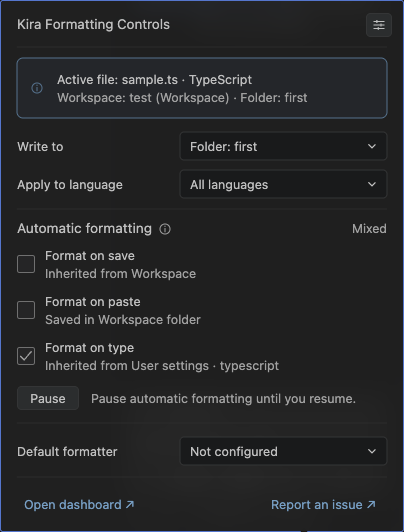
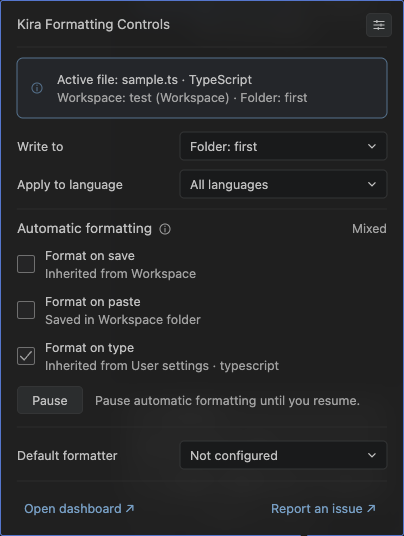
style(status): restore previous pause button dimensions

diff --git a/test/status.ts b/test/status.ts
@@ -408,8 +408,8 @@ export async function reviewStatus(
   assert.equal(await pauseLink.getAttribute("title"), null);
   const pauseImage = pauseLink.getByRole("img", { name: "Pause", exact: true });
   assert.equal(await pauseImage.getAttribute("title"), null);
-  assert.equal((await pauseImage.boundingBox())?.width, 62);
-  assert.equal((await pauseImage.boundingBox())?.height, 24);
+  assert.equal((await pauseImage.boundingBox())?.width, 66);
+  assert.equal((await pauseImage.boundingBox())?.height, 28);
   const pauseBounds = await pauseImage.boundingBox();
   const formatterBounds = await formatter.boundingBox();
   const settingsBounds = await settings.getByRole("img").boundingBox();
@@ -420,11 +420,7 @@ export async function reviewStatus(
     pauseBounds && formatterBounds && settingsBounds && headerBounds && hovered,
   );
   const center = (box: { y: number; height: number }) => box.y + box.height / 2;
-  assert.equal(
-    pauseBounds.height,
-    settingsBounds.height,
-    "Pause/Resume matches the Settings button height",
-  );
+  assert.equal(settingsBounds.height, 24, "Settings keeps its current size");
   assert.ok(Math.abs(center(settingsBounds) - center(headerBounds)) <= 1);
   const flagBounds = await flags.boundingBox();
   const caption = hover.getByRole("img", {

diff --git a/shared/status-artwork.ts b/shared/status-artwork.ts
@@ -261,27 +261,27 @@ export function statusArtwork(
       `Default formatter: ${context.formatter ?? "Not configured"}. Read-only.`,
     ),
     pause: image(
-      24,
-      rect(0.5, 0.5, 61, 23, p.border, p.button) +
+      28,
+      rect(0.5, 0.5, 65, 27, p.border, p.button) +
         centeredText(
-          31,
-          12,
+          33,
+          14,
           pauseLabel,
           12.5,
           context.canPause ? p.fg : p.muted,
           "middle",
         ),
       pauseLabel,
-      62,
+      66,
     ),
     // Unlinked artwork centers the button and explanation without expanding
     // the button's click target into the caption or vertical padding.
-    pauseInset: image(40, "", "", 5),
+    pauseInset: image(44, "", "", 5),
     pauseCaption: image(
-      40,
-      centeredText(12, 20, pauseCaption, 12.5, p.muted),
+      44,
+      centeredText(12, 22, pauseCaption, 12.5, p.muted),
       pauseCaption,
-      313,
+      309,
     ),
     dashboard: image(
       28,

diff --git a/test/unit/status-hover.ts b/test/unit/status-hover.ts
@@ -148,7 +148,8 @@ test("status and pause/resume reserve identical geometry and preserve truthful e
     1,
   );
   for (const art of variants) {
-    assert.equal(art.pause.height, art.settings.height);
+    assert.equal(art.pause.width, 66);
+    assert.equal(art.pause.height, 28);
     assert.doesNotMatch(art.state.svg, /<rect\b/);
     assert.doesNotMatch(art.summary.svg, /<rect\b/);
   }
@@ -176,7 +177,7 @@ test("information and pause explanations are passive while actions retain their 
     );
     assert.ok(button);
     assert.equal(button[2], "");
-    assert.match(button[3] ?? "", /width="62" height="24"/);
+    assert.match(button[3] ?? "", /width="66" height="28"/);
     assert.doesNotMatch(
       button[3] ?? "",
       /until you resume|previous formatting/,

diff --git a/docs/status-controls.md b/docs/status-controls.md
@@ -43,7 +43,7 @@ Read-only dropdowns use standard outlined fields with normal text and arrows. Ch
 
 VS Code's public `StatusBarItem.tooltip` accepts Markdown, images and command links; arbitrary form styling is sanitized. Locally generated inert SVG images preserve the approved layout, with native links for actions and hover-only titles for help. No scripts, external images, rendering network calls or rendering files are used.
 
-The approved compact layout uses a 380px content width (approximately 404px including the native hover frame and insets). The title and section heading use 13.5px regular text and body/control text 12.5px, including source notes, button labels and footer links. Icons, 17px checkboxes and dropdown arrows are reduced to match. Read-only fields retain 28px outlines. The status reserves 78px of width with no border or background, so labels do not move neighboring content. Setting rows use a 46px rhythm with approximately 10px between each checkbox and its text. Checked boxes show an outlined tick; unchecked boxes retain the same neutral surface. High-contrast themes retain distinct ticks and outlines. The file/workspace block and context info icon are vertically centered, with a 14px gap between the icon and text. The formatting heading, info glyph and fixed-width status text share one hover-only image with an optical adjustment for the icon, rather than mixing a text baseline with icon coordinates. The status explanation remains discoverable through the visible info icon. The neutral Pause/Resume button has a subtle gray fill and regular foreground text, retaining the native pause picker flow. Its explanation is a separate unlinked image; only the button invokes the action. Its 62px by 24px dimensions remain fixed across both labels and match the Settings button’s height; a read-only User-scope display keeps neutral styling. Borderless footer artwork shares the same content width and aligns to the card edges independently of VS Code's native table-column sizing. Its 139px and 133px button widths leave a 108px unlinked gutter.
+The approved compact layout uses a 380px content width (approximately 404px including the native hover frame and insets). The title and section heading use 13.5px regular text and body/control text 12.5px, including source notes, button labels and footer links. Icons, 17px checkboxes and dropdown arrows are reduced to match. Read-only fields retain 28px outlines. The status reserves 78px of width with no border or background, so labels do not move neighboring content. Setting rows use a 46px rhythm with approximately 10px between each checkbox and its text. Checked boxes show an outlined tick; unchecked boxes retain the same neutral surface. High-contrast themes retain distinct ticks and outlines. The file/workspace block and context info icon are vertically centered, with a 14px gap between the icon and text. The formatting heading, info glyph and fixed-width status text share one hover-only image with an optical adjustment for the icon, rather than mixing a text baseline with icon coordinates. The status explanation remains discoverable through the visible info icon. The neutral Pause/Resume button has a subtle gray fill and regular foreground text, retaining the native pause picker flow. Its explanation is a separate unlinked image; only the button invokes the action. Its 66px by 28px dimensions remain fixed across both labels; a read-only User-scope display keeps neutral styling. Borderless footer artwork shares the same content width and aligns to the card edges independently of VS Code's native table-column sizing. Its 139px and 133px button widths leave a 108px unlinked gutter.
 
 Transparent artwork reveals the native hover surface. Dark, light, high-contrast and high-contrast-light palettes follow the theme kind; arbitrary custom theme colors/fonts are not available inside the image renderer. Native links follow the editor's own hover/focus styling. The public Markdown tooltip cannot reproduce Copilot's custom grey icon-button hover fill or enforce a custom hover underline. This limitation does not change layout or actions.
 

diff --git a/CHANGELOG.md b/CHANGELOG.md
@@ -6,7 +6,7 @@
 - Set card typography to 13.5px headings and 12.5px body text, with proportionally smaller settings/info glyphs, checkboxes and arrows. Pause/Resume uses a fixed-size button with a subtle gray fill.
 - Detect unsaved destination settings before Pause/Resume starts, preserving edits and recovery data. An Open settings file warning helps users save the document and retry; unrelated dirty files do not block changes.
 - Styled Open dashboard and Report an issue as transparent blue borderless buttons with compact hit areas, no underline and a hand cursor across each complete button.
-- Kept a padded title-and-Settings header and narrower 380px card content. Pause/Resume sits beneath the three checkboxes, before Default formatter, with a visible explanation and balanced vertical spacing. Its neutral gray 62px by 24px button matches Settings in height; the explanation and padding are not clickable.
+- Kept a padded title-and-Settings header and narrower 380px card content. Pause/Resume sits beneath the three checkboxes, before Default formatter, with a visible explanation and balanced vertical spacing. Its neutral gray 66px by 28px button restores the earlier size; the explanation and padding are not clickable.
 - Made both information rows hover-only images with no command links or link focus outlines. Clarified the two-line file help and the numbered Enabled/Disabled/Mixed explanations, and optically aligned the formatting info icon with its heading.
 - Added the regular-VS-Code status card: hover and click share one anchored card, click pins it, and Escape dismisses it.
 - Show effective formatting, scope, language, formatter and saved/inherited sources through read-only checkbox/dropdown artwork. Formatting remains visible with plain, right-aligned Enabled/Disabled/Mixed text that reserves fixed space and explanatory help.
